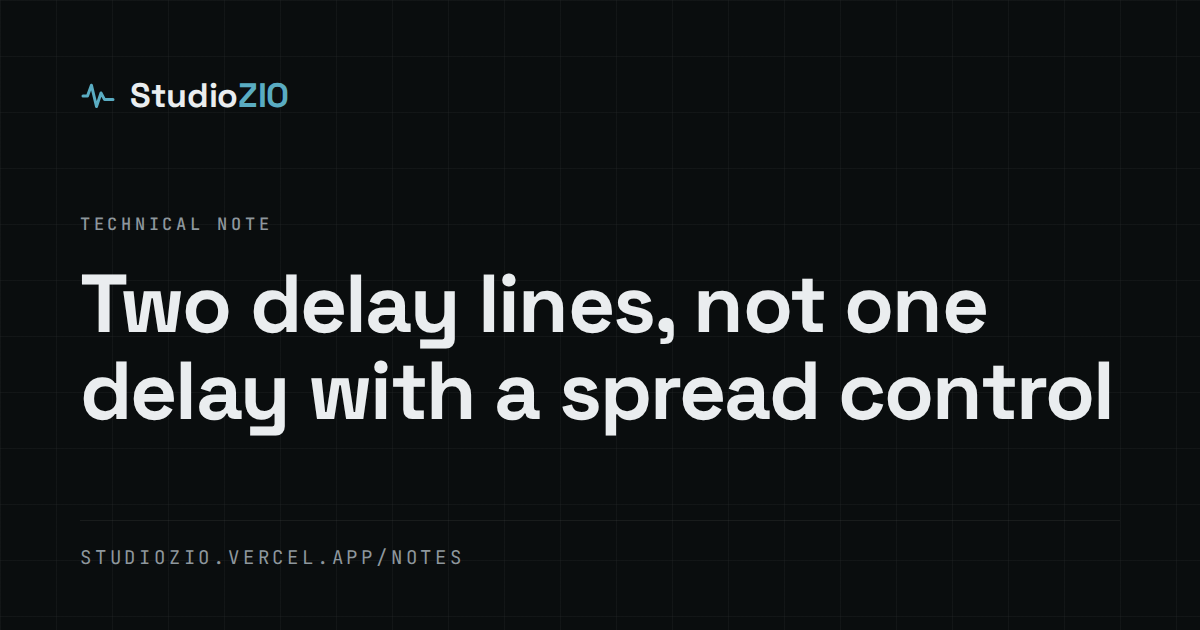
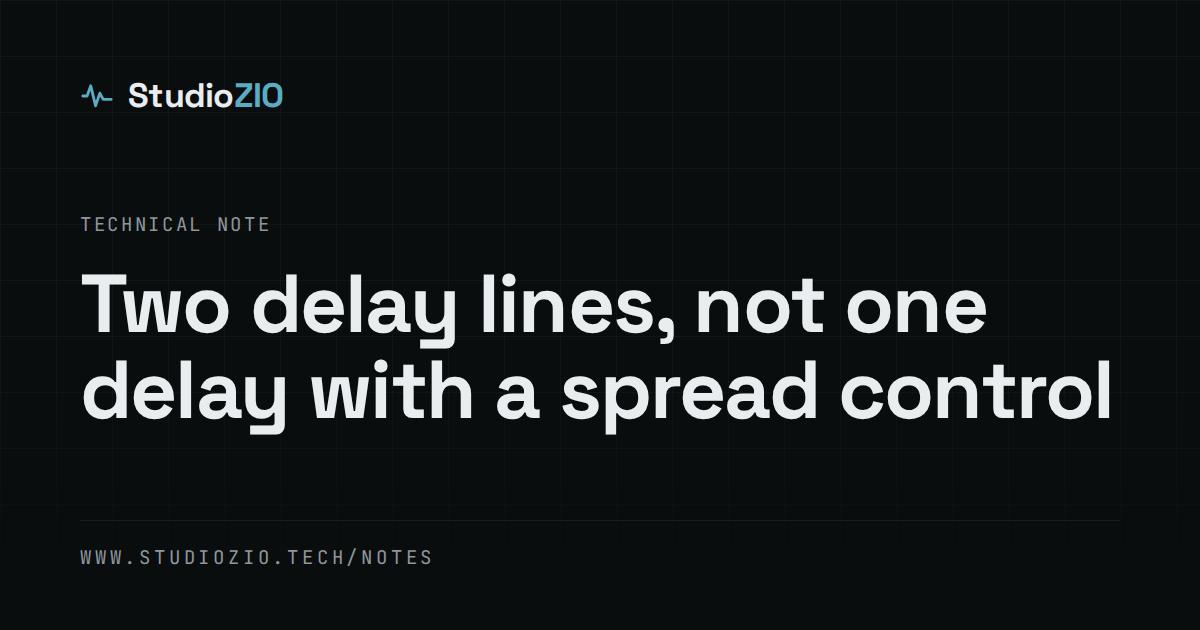
feat: hub studiozio.tech adresine tasindi

diff --git a/src/og/README.md b/src/og/README.md
@@ -17,7 +17,7 @@ and `og:image:height`, and a mismatch makes some crawlers skip the card.
 
 One per entry in `src/notes.mjs`, named `og-note-<slug>.png`. They carry the
 note's own `heading` and nothing invented: the eyebrow reads `Technical note`,
-the footer line reads `studiozio.vercel.app/notes`, and the lockup and grid are
+the footer line reads `www.studiozio.tech/notes`, and the lockup and grid are
 the ones above.
 
 The heading size is measured rather than chosen. Start at 84px and step down in
